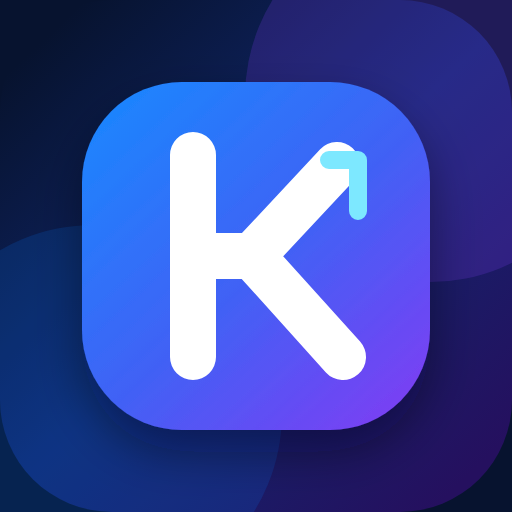
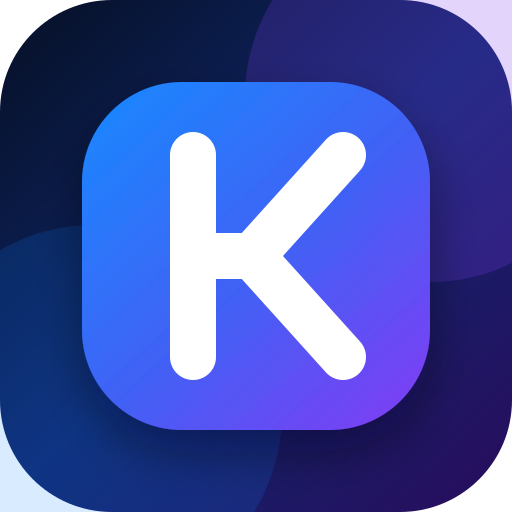
Fix form stability and dashboard synchronization

diff --git a/src/lib/crm.ts b/src/lib/crm.ts
@@ -1,6 +1,8 @@
 import { supabase } from './supabase'
 import { fetchAllRows } from './pagination'
 import { indexDealFinance } from './dealFinance'
+import { inferContactRoles } from './contactRoles'
+import { countContactsByRole, isActiveDealRow } from './crmOverview'
 
 export type OverviewTask = {
   id: string
@@ -119,10 +121,15 @@ const emptyOverview: CrmOverview = {
 
 export async function getCrmOverview(userId: string): Promise<CrmOverview> {
   const [clients, properties, tasks, events, deals, financeActivities] = await Promise.all([
-    fetchAllRows(() => supabase.from('clients').select('id,type,roles,mortgage_status,created_at').eq('user_id', userId).is('deleted_at', null)),
+    fetchAllRows(() => supabase
+      .from('clients')
+      .select('*')
+      .eq('user_id', userId)
+      .is('deleted_at', null)
+      .order('created_at', { ascending: false })),
     fetchAllRows(() => supabase
       .from('properties')
-      .select('id,address,price,status,property_type,listing_type,created_at')
+      .select('*')
       .eq('user_id', userId)
       .is('deleted_at', null)
       .neq('status', 'archived')
@@ -141,7 +148,12 @@ export async function getCrmOverview(userId: string): Promise<CrmOverview> {
       .eq('is_completed', false)
       .order('event_date', { ascending: true })
       .limit(8),
-    fetchAllRows(() => supabase.from('deals').select('id,status,price,created_at').eq('user_id', userId).is('deleted_at', null)),
+    fetchAllRows(() => supabase
+      .from('deals')
+      .select('*')
+      .eq('user_id', userId)
+      .is('deleted_at', null)
+      .order('created_at', { ascending: false })),
     fetchAllRows(() => supabase.from('crm_activities').select('id,external_key,metadata').eq('user_id', userId).eq('type', 'note').ilike('external_key', 'deal-finance:%').is('deleted_at', null)),
   ])
 
@@ -162,11 +174,12 @@ export async function getCrmOverview(userId: string): Promise<CrmOverview> {
     return [maps.days.get(value.slice(0, 10)), maps.weeks.get(monday), maps.months.get(value.slice(0, 7))].filter(Boolean) as AnalyticsPoint[]
   }
   for (const client of clients.data ?? []) {
+    const roles = inferContactRoles(client)
     for (const point of pointsFor(client.created_at)) {
-      if (client.type === 'seller') point.sellers += 1
-      if (client.type === 'buyer') point.buyers += 1
-      if (client.roles?.includes('landlord')) point.landlords += 1
-      if (client.roles?.includes('tenant')) point.tenants += 1
+      if (roles.includes('seller')) point.sellers += 1
+      if (roles.includes('buyer')) point.buyers += 1
+      if (roles.includes('landlord')) point.landlords += 1
+      if (roles.includes('tenant')) point.tenants += 1
       if (client.mortgage_status) point.mortgageLeads += 1
     }
   }
@@ -189,10 +202,10 @@ export async function getCrmOverview(userId: string): Promise<CrmOverview> {
 
   return {
     ...emptyOverview,
-    owners: (clients.data ?? []).filter(client => client.type === 'seller').length,
-    buyers: (clients.data ?? []).filter(client => client.type === 'buyer').length,
+    owners: countContactsByRole(clients.data ?? [], 'seller'),
+    buyers: countContactsByRole(clients.data ?? [], 'buyer'),
     properties: properties.data?.length ?? 0,
-    activeDeals: (deals.data ?? []).filter(deal => deal.status === 'active' || deal.status === 'pending').length,
+    activeDeals: (deals.data ?? []).filter(isActiveDealRow).length,
     completedToday: (tasks.data ?? []).filter(task => task.is_completed && typeof task.completed_at === 'string' && localDateKey(task.completed_at) === localDateKey(new Date())).length,
     tasks: (tasks.data ?? []).filter(task => !task.is_completed && task.status !== 'done').map(task => ({
       id: task.id,

diff --git a/src/components/BuyerForm.tsx b/src/components/BuyerForm.tsx
@@ -61,19 +61,41 @@ const BuyerForm = ({ isOpen, onClose, buyer, defaultPurpose = 'sale' }: BuyerFor
   const [section, setSection] = useState('contact')
   const [form, setForm] = useState<FormData>(emptyForm(defaultPurpose))
   const [newLocation, setNewLocation] = useState('')
+  const [draftReady, setDraftReady] = useState(false)
   const { saveBuyer, mutationPending: saving } = useClientRecords(user?.id)
   const requirementQuery = useClientRequirement(user?.id, buyer?.id, form.purpose)
+  const draftKey = user && !buyer ? `kvartocrm:buyer-draft:${user.id}:${defaultPurpose}` : null
 
   const update = <K extends keyof FormData>(key: K, value: FormData[K]) => setForm(current => ({ ...current, [key]: value }))
 
   useEffect(() => {
     if (!isOpen) return
+    setDraftReady(false)
     setSection('contact')
-    if (!buyer) { setForm(emptyForm(defaultPurpose)); return }
+    if (!buyer) {
+      let next = emptyForm(defaultPurpose)
+      if (draftKey) {
+        try {
+          const saved = sessionStorage.getItem(draftKey)
+          if (saved) next = { ...next, ...JSON.parse(saved) as Partial<FormData>, purpose: defaultPurpose }
+        } catch {
+          sessionStorage.removeItem(draftKey)
+        }
+      }
+      setForm(next)
+      setDraftReady(true)
+      return
+    }
     const purpose: 'sale' | 'rent' = buyer.roles?.includes('tenant') ? 'rent' : defaultPurpose
     setForm({ ...emptyForm(purpose), purpose, firstName: buyer.firstName || '', lastName: buyer.lastName || '', middleName: buyer.middleName || '', birthDate: buyer.birthDate || '', birthdayReminder: buyer.birthdayReminder || false, phone: buyer.phone || '+7', contactComment: buyer.contactComment || '', email: buyer.email || '', source: buyer.source || '', status: buyer.status || 'new', firstContactDate: buyer.firstContactDate || '', privateNotes: buyer.description || '', propertyType: buyer.propertyType || 'Квартира', priceMax: String(buyer.budget ?? ''), rooms: String(buyer.rooms ?? ''), locations: buyer.preferredDistricts || [], mortgageNeeded: buyer.mortgageStatus || false })
+    setDraftReady(true)
 
-  }, [buyer, defaultPurpose, isOpen])
+  }, [buyer, defaultPurpose, draftKey, isOpen])
+
+  useEffect(() => {
+    if (!isOpen || !draftKey || !draftReady) return
+    sessionStorage.setItem(draftKey, JSON.stringify(form))
+  }, [draftKey, draftReady, form, isOpen])
 
   useEffect(() => {
     const data = requirementQuery.data as Record<string, any> | null | undefined
@@ -114,6 +136,7 @@ const BuyerForm = ({ isOpen, onClose, buyer, defaultPurpose = 'sale' }: BuyerFor
         linked_cards: { valuation: form.linkedValuationId, insurance: form.linkedInsuranceId, mortgage: form.linkedMortgageId, deal: form.linkedDealId, buyer: form.linkedBuyerId, seller: form.linkedSellerId }, private_notes: form.privateNotes || null, public_notes: form.publicNotes || null, updated_at: new Date().toISOString(),
       }
       await saveBuyer(clientInput, requirement, buyer?.id, requirementQuery.data?.id)
+      if (draftKey) sessionStorage.removeItem(draftKey)
       onClose()
     } catch (error) {
       console.error('Client requirement save failed:', error); alert(`Не удалось сохранить заявку: ${getErrorMessage(error, 'проверьте подключение и повторите')}`)

diff --git a/src/pages/Dashboard.tsx b/src/pages/Dashboard.tsx
@@ -76,7 +76,6 @@ const Dashboard = ({ children }: DashboardProps) => {
   const { data, loading, error, reload } = useCrmOverview(isHome)
   const [completingId, setCompletingId] = useState<string | null>(null)
   const [dashboardMode, setDashboardMode] = useState<'sale' | 'rent' | 'mortgage'>('sale')
-  const [syncRevision, setSyncRevision] = useState(0)
   const [analyticsReady, setAnalyticsReady] = useState(false)
   const [mobileMenuOpen, setMobileMenuOpen] = useState(false)
   const reduceMotion = useReducedMotion()
@@ -103,25 +102,6 @@ const Dashboard = ({ children }: DashboardProps) => {
     const handle = window.setTimeout(show, 1200)
     return () => window.clearTimeout(handle)
   }, [isHome])
-
-  useEffect(() => {
-    let timer = 0
-    const refreshAfterSync = () => {
-      window.clearTimeout(timer)
-      timer = window.setTimeout(() => {
-        setSyncRevision(value => value + 1)
-      }, 350)
-    }
-    window.addEventListener('lumicrm:data-synced', refreshAfterSync)
-    window.addEventListener('lumicrm:remote-data-changed', refreshAfterSync)
-    window.addEventListener('lumicrm:workspace-refreshed', refreshAfterSync)
-    return () => {
-      window.clearTimeout(timer)
-      window.removeEventListener('lumicrm:data-synced', refreshAfterSync)
-      window.removeEventListener('lumicrm:remote-data-changed', refreshAfterSync)
-      window.removeEventListener('lumicrm:workspace-refreshed', refreshAfterSync)
-    }
-  }, [])
 
   useEffect(() => {
     const idleWindow = window as Window & { requestIdleCallback?: (callback: IdleRequestCallback, options?: IdleRequestOptions) => number; cancelIdleCallback?: (handle: number) => void }
@@ -460,7 +440,7 @@ const Dashboard = ({ children }: DashboardProps) => {
               exit={reduceMotion ? undefined : { opacity: 0, y: -5 }}
               transition={{ duration: reduceMotion ? 0 : 0.2, ease: 'easeOut' }}
             >
-              {isHome ? renderHome() : <div key={syncRevision}>{children}</div>}
+              {isHome ? renderHome() : children}
             </motion.div>
           </AnimatePresence>
         </div>

diff --git a/src/components/OfflineSyncStatus.tsx b/src/components/OfflineSyncStatus.tsx
@@ -173,7 +173,7 @@ const OfflineSyncStatus = () => {
 
   return (
     <div className="relative">
-      <button ref={triggerRef} type="button" onClick={() => setOpen(value => !value)} aria-expanded={open} aria-label="Состояние синхронизации" className="lumi-control inline-flex items-center gap-2 rounded-xl px-3 py-2.5 text-xs">
+      <button ref={triggerRef} type="button" onClick={() => setOpen(value => !value)} aria-expanded={open} aria-label="Состояние синхронизации" className="lumi-control inline-flex items-center justify-center gap-2 whitespace-nowrap rounded-xl px-3 py-2.5 text-xs lg:w-60">
         <Icon className={`h-4 w-4 ${iconClass} ${status.syncing ? 'animate-spin' : ''}`} />
         <span className="hidden lg:inline">{label}</span>
         {status.pending > 0 && <span className="rounded-full bg-amber-500/20 px-1.5 py-0.5 text-[0.65rem] font-bold text-amber-300 lg:hidden">{status.pending}</span>}

diff --git a/src/lib/crmOverview.test.ts b/src/lib/crmOverview.test.ts
@@ -1,0 +1,22 @@
+import assert from 'node:assert/strict'
+import test from 'node:test'
+import { countContactsByRole, isActiveDealRow } from './crmOverview.ts'
+
+test('dashboard counts modern roles and legacy primary types together', () => {
+  const rows = [
+    { id: 'modern-owner', type: 'buyer', roles: ['buyer', 'seller'] },
+    { id: 'legacy-owner', type: 'seller', roles: [] },
+    { id: 'buyer', type: 'buyer', roles: ['buyer'] },
+  ]
+
+  assert.equal(countContactsByRole(rows, 'seller'), 2)
+  assert.equal(countContactsByRole(rows, 'buyer'), 2)
+})
+
+test('dashboard treats every non-terminal legacy deal status as active', () => {
+  assert.equal(isActiveDealRow({ status: 'active' }), true)
+  assert.equal(isActiveDealRow({ status: 'pending' }), true)
+  assert.equal(isActiveDealRow({ status: 'in_progress' }), true)
+  assert.equal(isActiveDealRow({ status: 'closed' }), false)
+  assert.equal(isActiveDealRow({ status: 'cancelled' }), false)
+})

diff --git a/src/components/BrandLogo.tsx b/src/components/BrandLogo.tsx
@@ -27,8 +27,7 @@ const BrandLogo = ({ className, markClassName, compact = false, inverse = false 
           </linearGradient>
         </defs>
         <rect x="2" y="2" width="60" height="60" rx="17" fill={`url(#${gradientId})`} />
-        <path d="M21 16v32M24 32h7M31 32l14-15M31 32l15 16" fill="none" stroke="white" strokeWidth="7" strokeLinecap="round" strokeLinejoin="round" />
-        <path d="M43.5 16.5h4v8" fill="none" stroke="#7DE8FF" strokeWidth="3" strokeLinecap="round" />
+        <path d="M21 16v32M24 32h7M31 32l15-16M31 32l15 16" fill="none" stroke="white" strokeWidth="7" strokeLinecap="round" strokeLinejoin="round" />
       </svg>
       {!compact && (
         <span className={clsx('whitespace-nowrap text-[1.32rem] font-semibold tracking-[-0.035em]', inverse ? 'text-white' : 'lumi-text')}>

diff --git a/src/hooks/useCrmOverview.ts b/src/hooks/useCrmOverview.ts
@@ -3,6 +3,7 @@ import { useQuery } from '@tanstack/react-query'
 import { useAuth } from '../context/AuthContext'
 import { type CrmOverview, getCrmOverview } from '../lib/crm'
 import { crmQueryKeys } from '../lib/queryClient'
+import { clearWorkspaceNetworkRefresh, requestWorkspaceNetworkRefresh } from '../lib/offlineTransport'
 
 const initialValue: CrmOverview = {
   owners: 0,
@@ -31,7 +32,12 @@ export function useCrmOverview(enabled: boolean) {
 
   const reload = useCallback(async () => {
     if (!enabled || !user) return
-    await refetch()
+    requestWorkspaceNetworkRefresh()
+    try {
+      await refetch({ cancelRefetch: true, throwOnError: true })
+    } finally {
+      clearWorkspaceNetworkRefresh()
+    }
   }, [enabled, refetch, user])
 
   return {

diff --git a/src/lib/crmOverview.ts b/src/lib/crmOverview.ts
@@ -1,0 +1,10 @@
+import { inferContactRoles, type ContactRole } from './contactRoles.ts'
+
+type ContactRow = Record<string, unknown>
+type DealRow = { status?: unknown }
+
+export const countContactsByRole = (rows: ContactRow[], role: ContactRole) => rows
+  .filter(row => inferContactRoles(row).includes(role))
+  .length
+
+export const isActiveDealRow = (deal: DealRow) => deal.status !== 'closed' && deal.status !== 'cancelled'

diff --git a/public/sw.js b/public/sw.js
@@ -1,4 +1,4 @@
-const CACHE_NAME = 'kvartocrm-shell-v31'
+const CACHE_NAME = 'kvartocrm-shell-v32'
 const APP_SHELL = ['/', '/index.html', '/manifest.webmanifest', '/kvarto-icon-192.png', '/kvarto-icon-512.png']
 
 self.addEventListener('install', event => {
